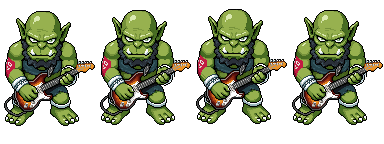
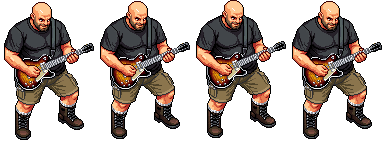
New Mikey portrait/look, packed props, walls, pillars, decor, human Derek Grumbo
Claude-Session: https://claude.ai/code/session_01VMaYe2CeeKzcmBuCUqa9Rb

diff --git a/src/data/characters.ts b/src/data/characters.ts
@@ -293,9 +293,9 @@ export const CHARACTERS: Record<string, CharacterDef> = {
     realName: "Mikey Nevitt",
     aka: "FGM ULTRA operative, call sign RUSSHEN",
     color: 0x4fc3f7,
-    portrait: "gen_mikey",
+    portrait: "pt_mikey",
     playable: true,
-    look: { skin: SKIN, hair: 0x4a3420, hairStyle: "short", beard: 0x5a3e26, glasses: "none", top: 0x30343f, topDetail: 0x4fc3f7, bottom: 0x23262e, shoes: 0xe8e8e8, bulk: 1 },
+    look: { skin: SKIN_PINK, hair: 0xc9a46a, hairStyle: "long", beard: 0x9a7a52, glasses: "none", top: 0xf2efe6, topDetail: 0xd8d2c0, bottom: 0x2a3140, shoes: 0xe8e8e8, bulk: 2 },
     maxHp: 85,
     speed: 205,
     damage: 6,
